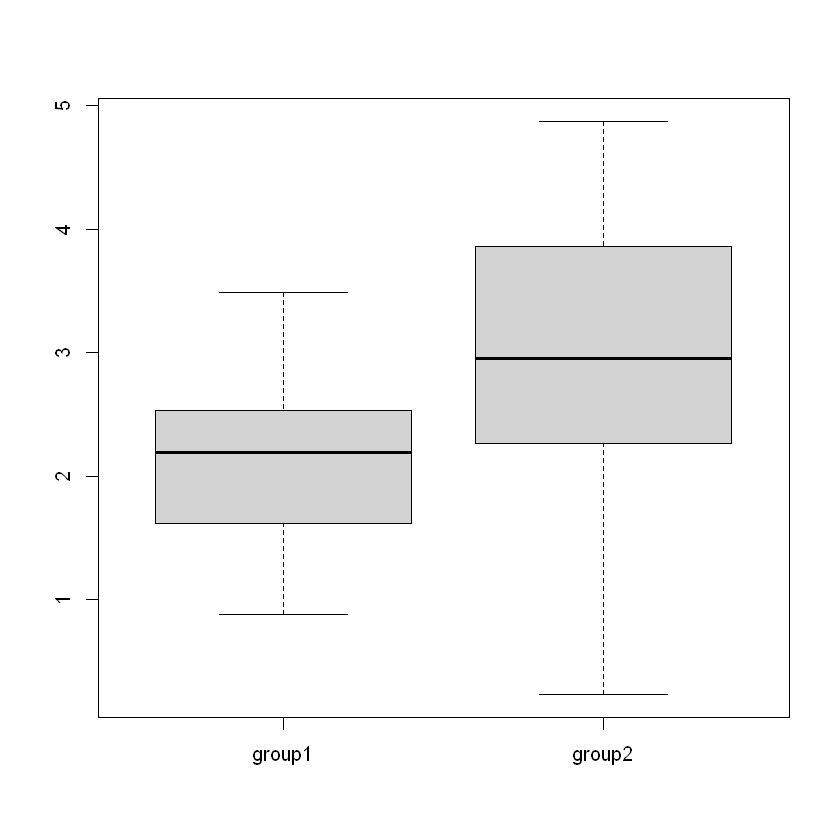
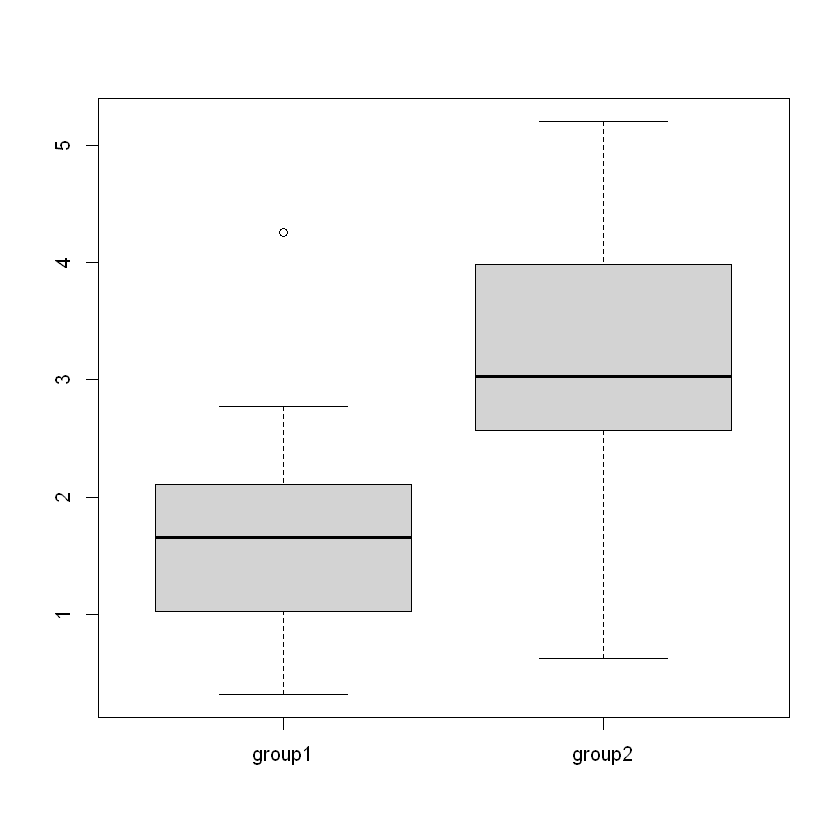
binf

diff --git a/binf8441/chap6.html b/binf8441/chap6.html
@@ -580,17 +580,17 @@ title="Print to PDF"
   <ul class="nav section-nav flex-column">
    <li class="toc-h3 nav-item toc-entry">
     <a class="reference internal nav-link" href="#two-points-hypothesis">
-     1. Two points hypothesis
+     Two points hypothesis
     </a>
    </li>
    <li class="toc-h3 nav-item toc-entry">
-    <a class="reference internal nav-link" href="#the-hypotheses-are-intervals">
-     2. The hypotheses are intervals
+    <a class="reference internal nav-link" href="#interval-hypotheses">
+     Interval hypotheses
     </a>
    </li>
    <li class="toc-h3 nav-item toc-entry">
-    <a class="reference internal nav-link" href="#nested-hypotheses-the-null-hypothesis-is-nested-in-the-alternative-hypothesis">
-     3. Nested hypotheses (the null hypothesis is nested in the alternative hypothesis)
+    <a class="reference internal nav-link" href="#nested-hypotheses">
+     Nested hypotheses
     </a>
    </li>
   </ul>
@@ -685,17 +685,17 @@ title="Print to PDF"
   <ul class="nav section-nav flex-column">
    <li class="toc-h3 nav-item toc-entry">
     <a class="reference internal nav-link" href="#two-points-hypothesis">
-     1. Two points hypothesis
+     Two points hypothesis
     </a>
    </li>
    <li class="toc-h3 nav-item toc-entry">
-    <a class="reference internal nav-link" href="#the-hypotheses-are-intervals">
-     2. The hypotheses are intervals
+    <a class="reference internal nav-link" href="#interval-hypotheses">
+     Interval hypotheses
     </a>
    </li>
    <li class="toc-h3 nav-item toc-entry">
-    <a class="reference internal nav-link" href="#nested-hypotheses-the-null-hypothesis-is-nested-in-the-alternative-hypothesis">
-     3. Nested hypotheses (the null hypothesis is nested in the alternative hypothesis)
+    <a class="reference internal nav-link" href="#nested-hypotheses">
+     Nested hypotheses
     </a>
    </li>
   </ul>
@@ -847,13 +847,13 @@ P\left(t&gt;a \mid H_{0}\right)=0.05
 <div class="output text_plain highlight-myst-ansi notranslate"><div class="highlight"><pre><span></span>	One Sample t-test
 
 data:  data
-t = -5.4438, df = 19, p-value = 1.49e-05
+t = -4.3178, df = 19, p-value = 0.0001855
 alternative hypothesis: true mean is less than 3
 95 percent confidence interval:
-     -Inf 2.247082
+     -Inf 2.463242
 sample estimates:
 mean of x 
- 1.896603 
+  2.10471 
 </pre></div>
 </div>
 </div>
@@ -878,13 +878,13 @@ mean of x
 <div class="output text_plain highlight-myst-ansi notranslate"><div class="highlight"><pre><span></span>	One Sample t-test
 
 data:  data
-t = -5.1449, df = 19, p-value = 5.758e-05
+t = -3.7972, df = 19, p-value = 0.001217
 alternative hypothesis: true mean is not equal to 3
 95 percent confidence interval:
- 1.378344 2.316225
+ 1.639641 2.606414
 sample estimates:
 mean of x 
- 1.847285 
+ 2.123027 
 </pre></div>
 </div>
 </div>
@@ -929,13 +929,13 @@ H_0: \mu_1 = \mu_2 \text{ versus } H_1: \mu_1 &lt; \mu_2
 <div class="output text_plain highlight-myst-ansi notranslate"><div class="highlight"><pre><span></span>	Welch Two Sample t-test
 
 data:  group1 and group2
-t = -2.8896, df = 31.508, p-value = 0.9965
+t = -4.6576, df = 37.367, p-value = 1
 alternative hypothesis: true difference in means is greater than 0
 95 percent confidence interval:
- -1.44786      Inf
+ -1.893748       Inf
 sample estimates:
 mean of x mean of y 
- 2.101888  3.014514 
+ 1.710340  3.100625 
 </pre></div>
 </div>
 <img alt="_images/chap6_5_1.png" src="_images/chap6_5_1.png" />
@@ -960,13 +960,13 @@ H_0: \mu_1 = \mu_2 \text{ versus } H_1: \mu_1 \ne \mu_2
 <div class="output text_plain highlight-myst-ansi notranslate"><div class="highlight"><pre><span></span>	Welch Two Sample t-test
 
 data:  group1 and group2
-t = -2.8896, df = 31.508, p-value = 0.006925
+t = -4.6576, df = 37.367, p-value = 3.967e-05
 alternative hypothesis: true difference in means is not equal to 0
 95 percent confidence interval:
- -1.5563502 -0.2689017
+ -1.9948940 -0.7856743
 sample estimates:
 mean of x mean of y 
- 2.101888  3.014514 
+ 1.710340  3.100625 
 </pre></div>
 </div>
 </div>
@@ -1005,8 +1005,8 @@ mean of x mean of y
 </div>
 <div class="cell_output docutils container">
 <div class="output text_plain highlight-myst-ansi notranslate"><div class="highlight"><pre><span></span>            Df Sum Sq Mean Sq F value   Pr(&gt;F)    
-group        2  26.79  13.395    16.1 2.87e-06 ***
-Residuals   57  47.43   0.832                     
+group        2  38.05  19.024   19.87 2.84e-07 ***
+Residuals   57  54.58   0.958                     
 ---
 Signif. codes:  0 &#39;***&#39; 0.001 &#39;**&#39; 0.01 &#39;*&#39; 0.05 &#39;.&#39; 0.1 &#39; &#39; 1
 </pre></div>
@@ -1072,7 +1072,7 @@ X-squared = 3.0387, df = 1, p-value = 0.0813
 <p>The likelihood ratio test can test which hypothesis (null or alternative) has a better fit to the real data. The test assumes that the likelihood function is given.</p>
 </div>
 <section id="two-points-hypothesis">
-<h3>1. Two points hypothesis<a class="headerlink" href="#two-points-hypothesis" title="Permalink to this headline">#</a></h3>
+<h3>Two points hypothesis<a class="headerlink" href="#two-points-hypothesis" title="Permalink to this headline">#</a></h3>
 <p><span class="math notranslate nohighlight">\(\mathrm{H}_{0}: \theta=\theta_{0}\)</span> vs <span class="math notranslate nohighlight">\(\mathrm{H}_{1}: \theta=\theta_{1}\)</span></p>
 <p>Test-stat: <span class="math notranslate nohighlight">\(t=\frac{l_{0}}{l_{1}}\)</span>, or equivalently, <span class="math notranslate nohighlight">\(t=2 \log \left(l_{1}\right)-2 \log \left(l_{0}\right)\)</span>, where <span class="math notranslate nohighlight">\(l_{0}\)</span> is the likelihood under the null hypothesis and <span class="math notranslate nohighlight">\(l_{1}\)</span> is the likelihood under the alternative hypothesis.</p>
 <p>Rejection region: we reject the null if <span class="math notranslate nohighlight">\(t&gt;a\)</span>, where <span class="math notranslate nohighlight">\(a\)</span> is the 95% quantile of the null distribution of the test statistic.</p>
@@ -1114,7 +1114,7 @@ t=2 \log \left(l_{1}\right)-2 \log \left(l_{0}\right)=\frac{-2 \sum_{i=1}^{n} x_
 </div>
 </div>
 <div class="cell_output docutils container">
-<div class="output stream highlight-myst-ansi notranslate"><div class="highlight"><pre><span></span>[1] &quot;the test statistic is -31.4368699656314 and the critical value a = 3.84145882069412&quot;
+<div class="output stream highlight-myst-ansi notranslate"><div class="highlight"><pre><span></span>[1] &quot;the test statistic is -9.34749303795088 and the critical value a = 3.84145882069412&quot;
 </pre></div>
 </div>
 </div>
@@ -1125,15 +1125,15 @@ t=2 \log \left(l_{1}\right)-2 \log \left(l_{0}\right)=\frac{-2 \sum_{i=1}^{n} x_
 <p>The likelihood ratio test for two simple hypotheses is the most powerful test.</p>
 </section>
 </div></section>
-<section id="the-hypotheses-are-intervals">
-<h3>2. The hypotheses are intervals<a class="headerlink" href="#the-hypotheses-are-intervals" title="Permalink to this headline">#</a></h3>
+<section id="interval-hypotheses">
+<h3>Interval hypotheses<a class="headerlink" href="#interval-hypotheses" title="Permalink to this headline">#</a></h3>
 <p><span class="math notranslate nohighlight">\(\mathrm{H}_{0}: \theta \in \Theta_{0}\)</span> vs <span class="math notranslate nohighlight">\(\mathrm{H}_{1}: \theta \in \Theta_{1}\)</span></p>
 <p>Test-stat: <span class="math notranslate nohighlight">\(t=2 \log \left(l_{1}\right)-2 \log \left(l_{0}\right)\)</span>, where <span class="math notranslate nohighlight">\(l_{0}=\max _{\theta \in \Theta_{0}}\{l(\theta)\}\)</span> is the maximum likelihood score under the null hypothesis and <span class="math notranslate nohighlight">\(l_{1}\)</span> is the maximum likelihood score <span class="math notranslate nohighlight">\(l_{1}=\)</span> <span class="math notranslate nohighlight">\(\max _{\theta \in \Theta_{1}}\{l(\theta)\}\)</span> under the alternative hypothesis.</p>
 <p>Rejection region: we reject the null if <span class="math notranslate nohighlight">\(t&gt;a\)</span> where <span class="math notranslate nohighlight">\(a\)</span> is the 95% quantile of the null distribution of the test statistic.</p>
 </section>
-<section id="nested-hypotheses-the-null-hypothesis-is-nested-in-the-alternative-hypothesis">
-<h3>3. Nested hypotheses (the null hypothesis is nested in the alternative hypothesis)<a class="headerlink" href="#nested-hypotheses-the-null-hypothesis-is-nested-in-the-alternative-hypothesis" title="Permalink to this headline">#</a></h3>
-<p><span class="math notranslate nohighlight">\(\mathrm{H}_{0}: \mathrm{M}_{0}\)</span> vs <span class="math notranslate nohighlight">\(\mathrm{H}_{1}: \mathrm{M}_{1}\)</span></p>
+<section id="nested-hypotheses">
+<h3>Nested hypotheses<a class="headerlink" href="#nested-hypotheses" title="Permalink to this headline">#</a></h3>
+<p><span class="math notranslate nohighlight">\(H_{0}: M_{0}\)</span> vs <span class="math notranslate nohighlight">\(H_{1}: M_{1}\)</span> where the null model <span class="math notranslate nohighlight">\(M_0\)</span> is a special case (nested) of the alternative model <span class="math notranslate nohighlight">\(M_1\)</span>.</p>
 <p>Test-stat: <span class="math notranslate nohighlight">\(t=2 \log \left(l_{1}\right)-2 \log \left(l_{0}\right)\)</span>, where <span class="math notranslate nohighlight">\(l_{0}=\max _{\theta \in \mathrm{M}_{0}}\{l(\theta)\}\)</span> is the maximum likelihood score under the null hypothesis and <span class="math notranslate nohighlight">\(l_{1}\)</span> is the maximum likelihood score <span class="math notranslate nohighlight">\(l_{1}=\)</span> <span class="math notranslate nohighlight">\(\max _{\theta \in \mathrm{M}_{1}}\{l(\theta)\}\)</span> under the alternative hypothesis.</p>
 <p>The null distribution of the test statistic is asymptotically the chi-square distribution with <span class="math notranslate nohighlight">\(\mathrm{df}=\left(\right.\)</span> number of free parameters in <span class="math notranslate nohighlight">\(\mathrm{H}_{1}-\)</span> number of free parameters in <span class="math notranslate nohighlight">\(\left.\mathrm{H}_{0}\right)\)</span></p>
 <p>Rejection region: we reject the null if <span class="math notranslate nohighlight">\(t&gt;a\)</span> where <span class="math notranslate nohighlight">\(a\)</span> is the 95% quantile of the chi-square distribution</p>
@@ -1149,7 +1149,7 @@ t=2 \log \left(l_{1}\right)-2 \log \left(l_{0}\right)=\frac{-2 \sum_{i=1}^{n} x_
 </div>
 </div>
 <div class="cell_output docutils container">
-<div class="output stream highlight-myst-ansi notranslate"><div class="highlight"><pre><span></span>[1] &quot;the test statistic is 17.20619071751 and the critical value a = 3.84145882069412&quot;
+<div class="output stream highlight-myst-ansi notranslate"><div class="highlight"><pre><span></span>[1] &quot;the test statistic is 10.132803346555 and the critical value a = 3.84145882069412&quot;
 </pre></div>
 </div>
 </div>
